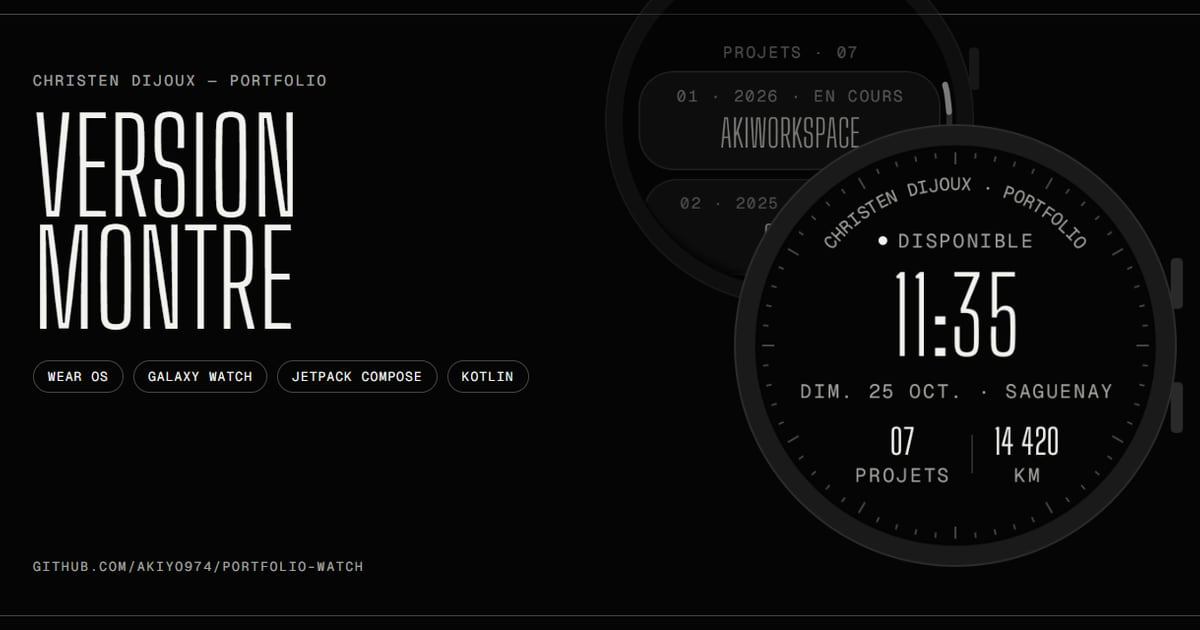
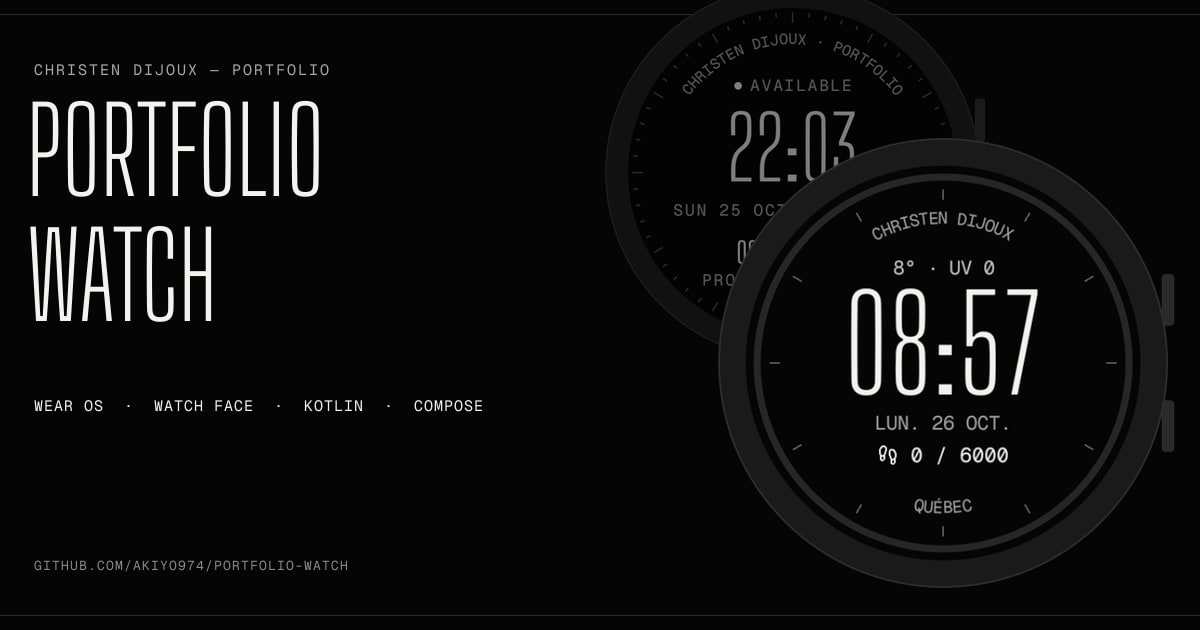
Corrections issues de la recette du site

diff --git a/src/data/customProjects.ts b/src/data/customProjects.ts
@@ -31,7 +31,7 @@ export const customProjects: CustomProject[] = [
  {
     id: 'akiworkspace',
     name: 'AkiWorkspace',
-    title: 'AkiWorkspace - Workspace Productivité',
+    title: 'AkiWorkspace - Workspace de productivité',
     description: "Application SaaS de gestion d'idées, notes, tâches et projets avec architecture full-stack moderne, sécurité renforcée et système de partage granulaire. Plateforme collaborative inspirée de Notion/Linear.",
     longDescription: "Conception et développement complet d'une application web type workspace collaboratif, permettant aux utilisateurs de centraliser notes, idées, tâches et projets dans une interface moderne. Architecture server-first basée sur Next.js App Router + Server Actions, avec logique métier entièrement côté serveur, validation stricte TypeScript + Zod et base de données Prisma. Le projet met l'accent sur la sécurité par défaut, la performance (React Server Components, streaming, cache intelligent), la DX moderne (Type-safe, Prisma, hot reload, migrations) et un système de permissions avancé avec partage public/secret/groupé. Développé comme produit SaaS fonctionnel, avec authentification complète, rôles admin, onboarding utilisateur, documentation technique et guide utilisateur.",
     languages: ['TypeScript', 'JavaScript', 'SQL'],
@@ -92,7 +92,7 @@ export const customProjects: CustomProject[] = [
   {
     id: 'ctreq',
     name: 'CTREQ',
-    title: 'CTREQ - Plateforme Éducative du Québec',
+    title: 'CTREQ - Plateforme éducative du Québec',
     description: "Refonte complète et fusion de deux sites WordPress (CTREQ + RIRE) en plateforme headless Next.js 13. Migration structurée de +10 types de contenus, architecture cache triple (~50ms), SEO avancé et plan de transfert de compétences pour l'équipe cliente.",
     longDescription: "Projet d'envergure institutionnelle pour le Centre de Transfert pour la Réussite Éducative du Québec : fusion complète de deux plateformes WordPress historiques (CTREQ + RIRE) en un système unifié moderne. Migration structurée de +10 types de contenus personnalisés avec reconstruction complète de l'architecture (CPT + ACF + taxonomies), harmonisation des schémas de données et validation croisée des relations. Architecture headless Next.js 13 App Router avec performances exceptionnelles (<100ms) grâce à une stratégie de cache triple sophistiquée (mémoire + ISR + SWR). Collaboration directe avec la direction du CTREQ sur 6 mois en autonomie complète, incluant analyse des besoins métier, priorisation des demandes, validation continue des livrables avec Caroline B. et Pape-Moussa D. Production du plan de transfert officiel avec documentation technique complète, formation des éditeurs WordPress et procédures de maintenance. Déploiement Next.js standalone sur cPanel avec configuration Passenger, monitoring des logs et tests Lighthouse CI automatisés.",
     languages: ['TypeScript', 'Next.js', 'React', 'GraphQL', 'WordPress'],
@@ -262,7 +262,7 @@ export const customProjects: CustomProject[] = [
   {
     id: 'innovations-numeriques-fp',
     name: 'Innovations Numériques FP',
-    title: 'Innovations Numériques en Formation Professionnelle',
+    title: 'Innovations numériques en formation professionnelle',
     description: "Application web interactive développée pour ECOBES (Cégep de Jonquière) en collaboration avec le CTREQ, valorisant les innovations numériques de +40 enseignants en formation professionnelle au Québec. Interface semi-privée avec exploration par secteur, recherche avancée et carte Mapbox interactive.",
     longDescription: "Application web interactive développée pour ECOBES, centre de recherche et de transfert du Cégep de Jonquière, en collaboration avec le CTREQ, le Laboratoire en Innovation Ouverte et l'UQAR, avec le soutien financier du Gouvernement du Québec. L'objectif du projet était de mettre en valeur les innovations numériques réalisées par plus de 40 enseignantes et enseignants en formation professionnelle partout au Québec. Certaines innovations étant sensibles ou internes à des centres de formation, l'application est accessible uniquement via un lien privé (non indexée, non publique). L'outil permet d'explorer ces innovations par secteur de formation, via des fiches descriptives détaillées, ou à travers une carte Mapbox interactive montrant leur distribution géographique à travers la province. L'application possède un mode sombre et un mode clair, offrant une expérience cohérente, moderne et adaptée à différents contextes d'utilisation.",
     languages: ['TypeScript', 'JavaScript', 'React', 'HTML5', 'CSS3'],
@@ -388,7 +388,7 @@ export const customProjects: CustomProject[] = [
   {
     id: 'webana',
     name: 'Webana',
-    title: "Webana - L'Art du Katana",
+    title: "Webana - L'art du katana",
     description: "Site e-commerce démonstratif conçu avec React et TailwindCSS. Il présente l'histoire des katanas et simule leur vente avec des filtres dynamiques, un panier, et un mode clair/sombre.",
     longDescription: "Webana est un projet de site e-commerce dédié à l'univers des katanas japonais. Ce site présente une interface moderne et élégante permettant aux utilisateurs de découvrir l'histoire fascinante des katanas tout en explorant une sélection de produits. Le projet intègre des fonctionnalités avancées comme un système de filtres dynamiques, un panier d'achat fonctionnel, et un thème personnalisable.",
     languages: ['React', 'TypeScript', 'TailwindCSS'],
@@ -422,7 +422,7 @@ export const customProjects: CustomProject[] = [
   {
     id: 'akiproject',
     name: 'AkiProject',
-    title: 'AkiProject - Gestionnaire de Tâches',
+    title: 'AkiProject - Gestionnaire de tâches',
     description: "Gestionnaire de tâches et messagerie en temps réel développés avec Bootstrap, jQuery, et PHP. Conçu pour démontrer les compétences en communication asynchrone et gestion de tâches dans un contexte académique.",
     longDescription: "AkiProject est une application web complète de gestion de projets et de communication. Elle combine un gestionnaire de tâches intuitif avec un système de messagerie en temps réel, permettant aux équipes de collaborer efficacement. Le projet démontre la maîtrise des technologies web traditionnelles et des concepts de programmation asynchrone.",
     languages: ['PHP', 'JavaScript', 'MySQL'],
@@ -456,7 +456,7 @@ export const customProjects: CustomProject[] = [
   {
     id: 'akimusic',
     name: 'AkiMusic',
-    title: 'AkiMusic - Plateforme de Streaming',
+    title: 'AkiMusic - Plateforme de streaming',
     description: "Projet de démonstration pour une plateforme de streaming musical, conçu pour simuler des fonctionnalités telles que les abonnements et la gestion de playlists. Interface utilisateur complète pour un service de musique en ligne.",
     longDescription: "AkiMusic est un prototype de plateforme de streaming musical créé à des fins éducatives. Bien qu'il ne diffuse pas réellement de musique, le projet illustre parfaitement les concepts d'interface utilisateur pour un service de streaming, incluant la navigation, la gestion de playlists, et un système d'abonnement simulé.",
     languages: ['PHP', 'JavaScript', 'Bootstrap'],

diff --git a/src/pages/CVPage.tsx b/src/pages/CVPage.tsx
@@ -45,7 +45,7 @@ const skillGroups: SkillGroup[] = [
 
 const experiences: Experience[] = [
   {
-    title: 'Spécialiste en Innovation Numérique',
+    title: 'Spécialiste en innovation numérique',
     company: 'Gagnon Frères',
     period: 'Fév. 2026 – Présent',
     bullets: [
@@ -106,7 +106,7 @@ const education: Education[] = [
     description: 'Renforcement des compétences en React.js, JSX, ES6, Redux et hooks, dans un contexte technique anglophone.',
   },
   {
-    title: 'Certificat en Design de Jeux Vidéo',
+    title: 'Certificat en design de jeux vidéo',
     school: 'Cégep de Jonquière',
     period: '2023',
     description: 'Acquisition de compétences en level design et création d\'expériences interactives.',
@@ -133,7 +133,7 @@ const EN: Record<string, string> = {
   'Cloud, Outils et Observabilité': 'Cloud, Tooling and Observability',
   'Design et Produit': 'Design and Product',
   'Accessibilité web': 'Web accessibility',
-  'Spécialiste en Innovation Numérique': 'Digital Innovation Specialist',
+  'Spécialiste en innovation numérique': 'Digital Innovation Specialist',
   'Co-fondateur et Développeur Web': 'Co-founder and Web Developer',
   'Développeur Full-Stack et DevOps': 'Full-Stack and DevOps Developer',
   'Chargé de Communication': 'Communications Officer',
@@ -164,7 +164,7 @@ const EN: Record<string, string> = {
     'Introduction of young learners to information technologies with an adapted pedagogical approach.',
   'Techniques d\'Intégration Multimédia': 'Multimedia Integration Techniques',
   'Formation en Développement Front-End (React)': 'Front-End Application Development Training (React)',
-  'Certificat en Design de Jeux Vidéo': 'Video Game Design Certificate',
+  'Certificat en design de jeux vidéo': 'Video Game Design Certificate',
   'Cégep de Jonquière': 'Cégep de Jonquière (College)',
   'edX en partenariat avec IBM': 'edX in partnership with IBM',
   'Concentration sur le développement front-end, l\'expérience utilisateur et la conception d\'interfaces immersives.':
@@ -342,7 +342,7 @@ export default function CVPage() {
           <header className="border-b border-line pb-8">
             <h1 className="display text-[clamp(3rem,8vw,7.5rem)]">CHRISTEN DIJOUX</h1>
             <p className="heading mt-3 text-[clamp(1.4rem,2.4vw,2.2rem)] text-paper/70">
-              {isEn ? 'Digital Innovation Specialist | Full-Stack Developer' : 'Spécialiste en Innovation Numérique | Développeur Full-Stack'}
+              {isEn ? 'Digital Innovation Specialist | Full-Stack Developer' : 'Spécialiste en innovation numérique | Développeur Full-Stack'}
             </p>
 
             <div className="mt-8 grid grid-cols-1 gap-3 font-mono text-[12px] uppercase tracking-[0.06em] md:grid-cols-2 lg:grid-cols-4">
@@ -378,7 +378,7 @@ export default function CVPage() {
 
               <section>
                 <h2 className="heading mb-5 border-b border-line pb-2 text-3xl uppercase">
-                  {isEn ? 'Professional Experience' : 'Expérience Professionnelle'}
+                  {isEn ? 'Professional Experience' : 'Expérience professionnelle'}
                 </h2>
                 <div className="space-y-6">
                   {experiences.map((experience) => (

diff --git a/src/components/Seo.tsx b/src/components/Seo.tsx
@@ -23,6 +23,8 @@ export const Seo: React.FC<{
 }> = ({ title, description, path, image, imageAlt, type = 'website', noindex = false, children }) => {
   const { i18n } = useTranslation();
   const fr = i18n.language?.startsWith('fr');
+  // Google coupe au-delà d'environ 160 caractères : on coupe nous-mêmes, sur un mot entier
+  const desc = description.length > 160 ? `${description.slice(0, 157).replace(/[\s,;:.—-]+\S*$/, '')}…` : description;
   const en = `${SITE_URL}${path}`;
   const frUrl = `${en}?lang=fr`;
   const self = fr ? frUrl : en;
@@ -31,7 +33,7 @@ export const Seo: React.FC<{
   return (
     <Helmet>
       <title>{title}</title>
-      <meta name="description" content={description} />
+      <meta name="description" content={desc} />
       <meta name="robots" content={noindex ? 'noindex, nofollow' : 'index, follow, max-image-preview:large'} />
       {!noindex && <link rel="canonical" href={self} />}
       {!noindex && <link rel="alternate" hrefLang="en" href={en} />}
@@ -43,13 +45,13 @@ export const Seo: React.FC<{
       <meta property="og:locale" content={fr ? 'fr_CA' : 'en_CA'} />
       <meta property="og:url" content={self} />
       <meta property="og:title" content={title} />
-      <meta property="og:description" content={description} />
+      <meta property="og:description" content={desc} />
       <meta property="og:image" content={img} />
       <meta property="og:image:alt" content={imageAlt ?? title} />
 
       <meta name="twitter:card" content="summary_large_image" />
       <meta name="twitter:title" content={title} />
-      <meta name="twitter:description" content={description} />
+      <meta name="twitter:description" content={desc} />
       <meta name="twitter:image" content={img} />
       <meta name="twitter:image:alt" content={imageAlt ?? title} />
       {children}

diff --git a/src/pages/ProjectDetailPage.tsx b/src/pages/ProjectDetailPage.tsx
@@ -21,6 +21,12 @@ import { useLenis } from '../hooks/useLenis';
 gsap.registerPlugin(ScrollTrigger);
 
 // Images de partage 1200×630 (JPG / PNG : les .webp passent mal dans les aperçus LinkedIn)
+/** Titre d'onglet et de résultat Google : le plus complet qui tient dans ~60 caractères. */
+const caseStudyTitle = (title: string, name: string, caseStudy: string) =>
+  [`${title} — ${caseStudy} | Christen Dijoux`, `${title} | Christen Dijoux`, `${name} — ${caseStudy} | Christen Dijoux`].find(
+    (candidate) => candidate.length <= 60
+  ) ?? `${name} | Christen Dijoux`;
+
 const OG_IMAGES: Record<string, string> = {
   akiworkspace: 'jpg',
   'portfolio-watch': 'jpg',
@@ -161,7 +167,7 @@ export const ProjectDetailPage = () => {
       <Seo
         path={`/project/${project.id}`}
         type="article"
-        title={`${translatedTitle} — ${t('ui.caseStudy')} | Christen Dijoux`}
+        title={caseStudyTitle(translatedTitle, project.name, t('ui.caseStudy'))}
         description={translatedDescription}
         image={OG_IMAGES[project.id] ? `/assets/og/${project.id}.${OG_IMAGES[project.id]}` : undefined}
         imageAlt={translatedTitle}

diff --git a/src/components/SiteHeader.tsx b/src/components/SiteHeader.tsx
@@ -108,7 +108,7 @@ export const SiteHeader: React.FC = () => {
     );
 
   const linkClass =
-    'font-mono text-[12px] uppercase tracking-[0.12em] text-paper/80 hover:text-paper transition-colors focus:outline-none focus-visible:underline';
+    '-my-1 inline-block py-1 font-mono text-[12px] uppercase tracking-[0.12em] text-paper/80 hover:text-paper transition-colors focus:outline-none focus-visible:underline';
 
   const NavGroup: React.FC<{ items: NavItem[]; offset: number; className?: string; compact?: boolean }> = ({
     items,
@@ -126,7 +126,7 @@ export const SiteHeader: React.FC = () => {
               className={`${linkClass} group relative flex items-baseline gap-1.5 ${active ? '!text-paper' : ''}`}
             >
               {!compact && (
-                <span className={`text-[9px] tabular-nums transition-colors ${active ? 'text-paper' : 'text-paper/35 group-hover:text-paper/70'}`}>
+                <span className={`text-[9px] tabular-nums transition-colors ${active ? 'text-paper' : 'text-paper/55 group-hover:text-paper/80'}`}>
                   0{offset + i + 1}
                 </span>
               )}

diff --git a/src/components/Footer.tsx b/src/components/Footer.tsx
@@ -11,7 +11,7 @@ interface FooterProps {
 }
 
 const linkClass =
-  'font-mono text-[12px] uppercase tracking-[0.08em] text-paper/60 hover:text-paper transition-colors focus:outline-none focus-visible:underline';
+  'inline-block py-1 -my-1 font-mono text-[12px] uppercase tracking-[0.08em] text-paper/60 hover:text-paper transition-colors focus:outline-none focus-visible:underline';
 
 // Petit numéro au-dessus du titre (le libellé complet reste pour les lecteurs d'écran)
 const Column: React.FC<{ index: number; title: string; label: string; children: React.ReactNode }> = ({ index, title, label, children }) => (
@@ -191,7 +191,7 @@ export const Footer: React.FC<FooterProps> = ({ variant = 'default' }) => {
         )}
         <button
           onClick={scrollToTop}
-          className="label group flex items-center gap-2 hover:text-paper focus:outline-none focus-visible:underline"
+          className="label group -my-1 flex items-center gap-2 py-1 hover:text-paper focus:outline-none focus-visible:underline"
           aria-label={t('footer.backToTop')}
         >
           {t('footer.backToTop')}

diff --git a/src/components/Chatbot/botLogic/knowledge.ts b/src/components/Chatbot/botLogic/knowledge.ts
@@ -35,7 +35,7 @@ const buildProjects = (lang: Lang): ProjectInfo[] => {
   const tr = ((locales[lang] as unknown as { customProjects?: ProjectTranslations }).customProjects ?? {}) as ProjectTranslations;
   return customProjects.map((p) => {
     const t = tr[p.id] ?? {};
-    const stack = Array.from(
+    const all = Array.from(
       new Set([
         ...p.languages,
         ...(p.technologies?.frontend ?? []),
@@ -43,6 +43,8 @@ const buildProjects = (lang: Lang): ProjectInfo[] => {
         ...(p.technologies?.tools ?? []),
       ])
     );
+    // « Kotlin » est inutile à côté de « Kotlin 2.1 » : on garde seulement la mention la plus précise
+    const stack = all.filter((tech) => !all.some((other) => other !== tech && other.toLowerCase().startsWith(`${tech.toLowerCase()} `)));
     return {
       id: p.id,
       name: p.name,

diff --git a/src/pages/LabPage.tsx b/src/pages/LabPage.tsx
@@ -162,7 +162,7 @@ export const LabPage: React.FC = () => {
       <Seo path="/lab" title={t.title} description={t.description} image="/assets/art/og-lab.jpg" imageAlt="Lab — Gray-Scott reaction-diffusion and particle type" />
 
       <header className="px-4 pb-12 pt-8 sm:px-6 md:px-10 md:pb-20 md:pt-12">
-        <Link to="/" className="label group flex w-fit items-center gap-2 hover:text-paper">
+        <Link to="/" className="label group -my-1 flex w-fit items-center gap-2 py-1 hover:text-paper">
           <ArrowLeft className="h-3 w-3 transition-transform group-hover:-translate-x-0.5" aria-hidden="true" />
           {t.back}
         </Link>

diff --git a/src/components/LegalLayout.tsx b/src/components/LegalLayout.tsx
@@ -98,7 +98,7 @@ export const LegalLayout: React.FC<{ doc: LegalDoc; other: { to: string; label: 
   return (
     <main className="min-h-screen bg-ink text-paper">
       <header className="px-4 pb-12 pt-8 sm:px-6 md:px-10 md:pb-16 md:pt-12">
-        <Link to="/" className="label group flex w-fit items-center gap-2 hover:text-paper">
+        <Link to="/" className="label group -my-1 flex w-fit items-center gap-2 py-1 hover:text-paper">
           <ArrowLeft className="h-3 w-3 transition-transform group-hover:-translate-x-0.5" aria-hidden="true" />
           {lang === 'fr' ? 'Accueil' : 'Home'}
         </Link>

diff --git a/src/pages/HomePage.tsx b/src/pages/HomePage.tsx
@@ -62,7 +62,7 @@ export const HomePage = () => {
       <Seo
         path="/"
         type="profile"
-        title={t('home.title', { defaultValue: 'Christen Dijoux — Développeur Full-stack & IA | Saguenay' })}
+        title={t('home.title', { defaultValue: 'Christen Dijoux — Développeur full-stack & IA | Saguenay' })}
         description={t('home.description', { defaultValue: 'Portfolio de Christen Dijoux - Développeur Full-stack spécialisé en React, Node.js, TypeScript et WordPress Headless.' })}
       />
       <HeroSection />

diff --git a/src/components/HeroSection.tsx b/src/components/HeroSection.tsx
@@ -209,7 +209,7 @@ export const HeroSection: React.FC = () => {
             <p className="label text-paper/80">
               {t('hero.tagline')} — {year}
             </p>
-            <a href="#about" data-scroll-to="about" className="label flex items-center gap-2 hover:text-paper">
+            <a href="#about" data-scroll-to="about" className="label -my-1 flex items-center gap-2 py-1 hover:text-paper">
               {t('ui.scroll')} <ArrowDown className="h-3 w-3 animate-bounce" aria-hidden="true" />
             </a>
           </div>

diff --git a/src/components/ui/Expandable.tsx b/src/components/ui/Expandable.tsx
@@ -382,7 +382,7 @@ export const ExpandButton: React.FC<{
       onClick={onClick}
       aria-expanded={open}
       aria-controls={controls}
-      className={`label group inline-flex items-center gap-2.5 text-paper ${mobileOnly ? 'md:hidden' : ''} ${className}`}
+      className={`label group -my-1 inline-flex items-center gap-2.5 py-1 text-paper ${mobileOnly ? 'md:hidden' : ''} ${className}`}
     >
       <PixelPlus open={open} />
       <span className="sr-only">{text}</span>
